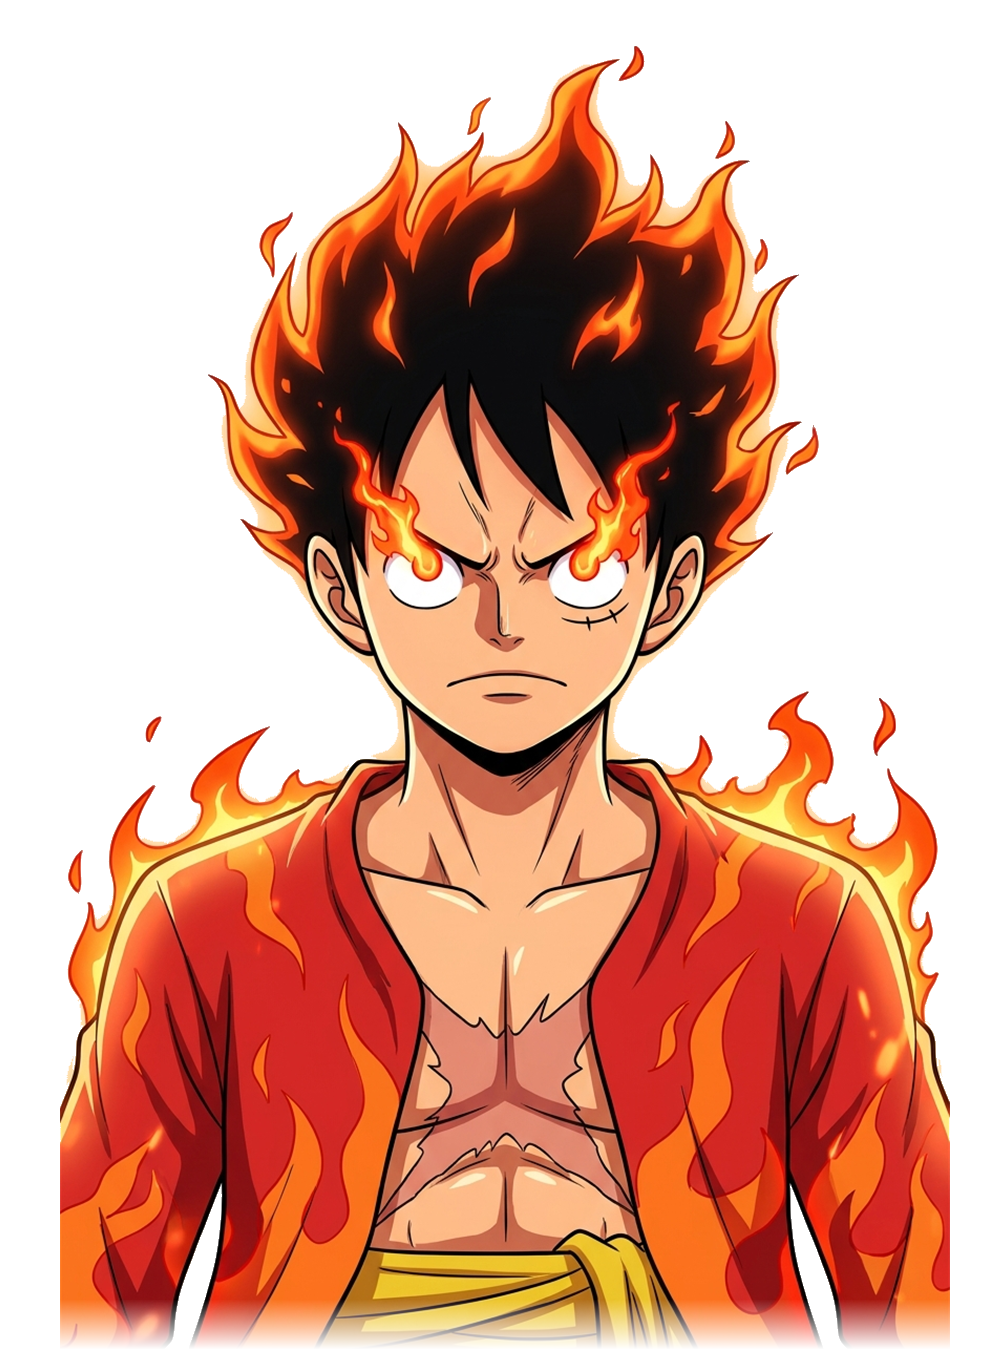
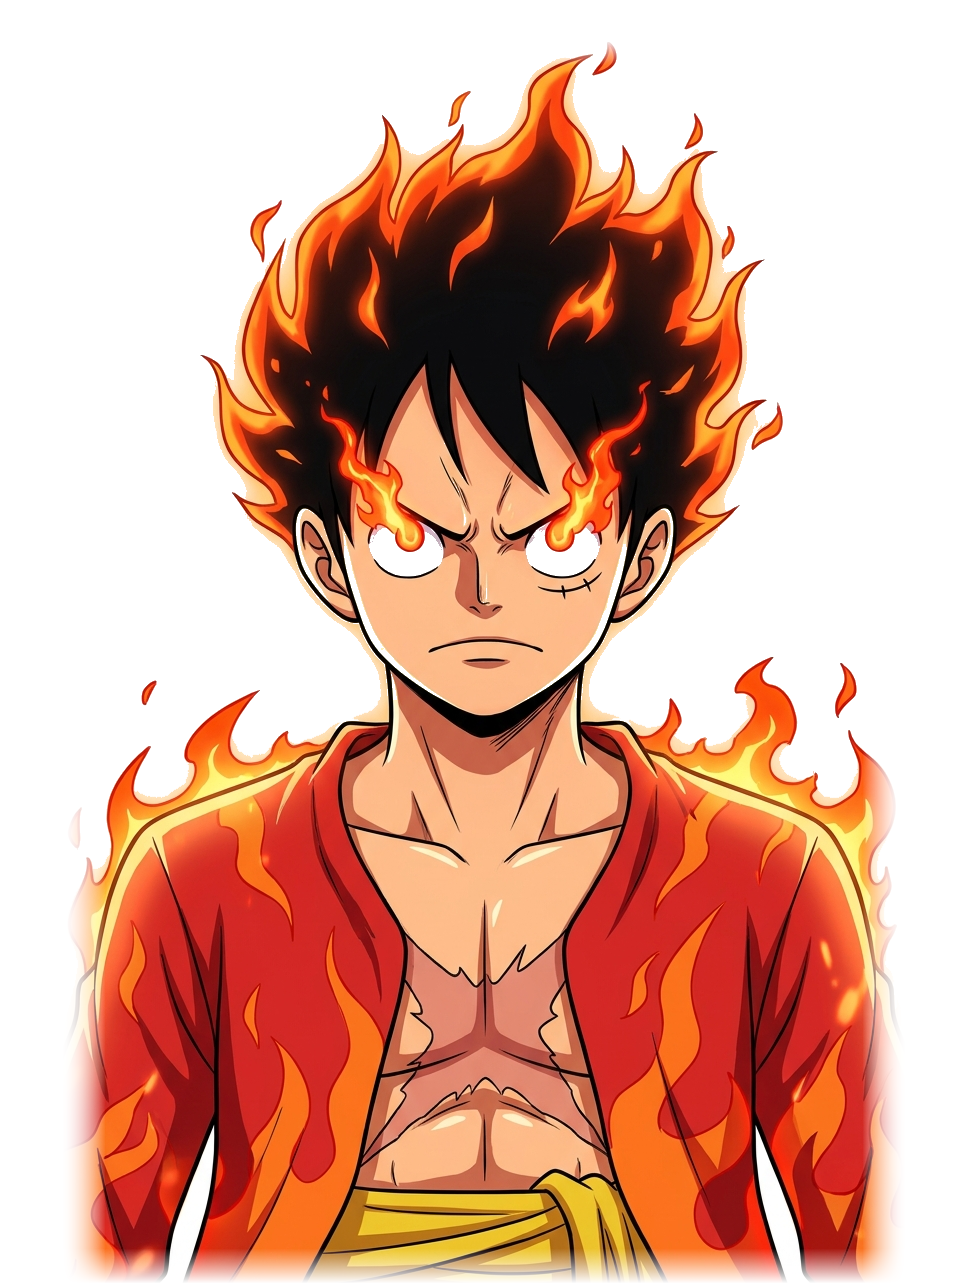
fix: restore authentic original portrait photo and stack MUHAMMAD above FEBRIANSYAH in hero typography

Changed region(s): [[0.062, 0.0312, 0.9607, 0.9969], [0.2169, 0.7477, 0.2789, 0.8411], [0.2789, 0.6854, 0.3099, 0.7165]]

diff --git a/style.css b/style.css
@@ -396,10 +396,6 @@ body {
 
 .hero-bg-text {
   font-family: var(--font-hero);
-  font-size: clamp(2.2rem, 7.2vw, 7.4rem);
-  font-weight: 900;
-  line-height: 0.95;
-  letter-spacing: clamp(-2px, -0.05vw, -0.5px);
   text-transform: uppercase;
   background: linear-gradient(180deg, #ffffff 0%, #dedfe8 50%, #7e8096 100%);
   -webkit-background-clip: text;
@@ -407,6 +403,31 @@ body {
   -webkit-text-fill-color: transparent;
   opacity: 0.95;
   filter: drop-shadow(0 15px 35px rgba(0, 0, 0, 0.7));
+  display: flex;
+  flex-direction: column;
+  align-items: center;
+  justify-content: center;
+  line-height: 0.9;
+  user-select: none;
+}
+
+.hero-name-top {
+  display: block;
+  font-size: clamp(1.8rem, 5.2vw, 5.2rem);
+  font-weight: 800;
+  letter-spacing: clamp(3px, 1vw, 12px);
+  opacity: 0.9;
+  line-height: 0.94;
+  margin-bottom: 0.05em;
+  white-space: nowrap;
+}
+
+.hero-name-main {
+  display: block;
+  font-size: clamp(3.2rem, 11vw, 10.8rem);
+  font-weight: 900;
+  letter-spacing: clamp(-2px, -0.05vw, -0.5px);
+  line-height: 0.88;
   white-space: nowrap;
 }
 
@@ -468,7 +489,9 @@ body {
   height: 100%;
   object-fit: contain;
   object-position: bottom center;
-  filter: drop-shadow(0 0 25px rgba(255, 75, 0, 0.85)) drop-shadow(0 15px 30px rgba(0, 0, 0, 0.85));
+  transform: scale(1.085);
+  transform-origin: bottom center;
+  filter: drop-shadow(0 0 24px rgba(255, 75, 0, 0.75)) drop-shadow(0 15px 30px rgba(0, 0, 0, 0.85));
 }
 
 /* Cursor Follower Dot on Portrait */
@@ -504,14 +527,15 @@ body {
 
 .hero-stroke-text {
   font-family: var(--font-hero);
-  font-size: clamp(2.2rem, 7.2vw, 7.4rem);
-  font-weight: 900;
-  line-height: 0.95;
-  letter-spacing: clamp(-2px, -0.05vw, -0.5px);
   text-transform: uppercase;
   color: transparent;
   -webkit-text-stroke: 1.5px rgba(255, 255, 255, 0.35);
-  white-space: nowrap;
+  display: flex;
+  flex-direction: column;
+  align-items: center;
+  justify-content: center;
+  line-height: 0.9;
+  user-select: none;
 }
 
 /* Floating Status / Hero Meta Card */
@@ -1884,18 +1908,24 @@ body {
     padding: 0.65rem 1rem;
     font-size: 0.8rem;
   }
-  .hero-bg-text,
-  .hero-stroke-text {
-    font-size: clamp(1.6rem, 6.8vw, 3.2rem);
+  .hero-name-top {
+    font-size: clamp(1.3rem, 5vw, 2.5rem);
+    letter-spacing: clamp(2px, 0.6vw, 5px);
+  }
+  .hero-name-main {
+    font-size: clamp(2.4rem, 9.6vw, 4.8rem);
     letter-spacing: -0.5px;
   }
 }
 
 @media (max-width: 480px) {
-  .hero-bg-text,
-  .hero-stroke-text {
-    font-size: clamp(1.2rem, 6.4vw, 1.85rem);
-    letter-spacing: -0.2px;
+  .hero-name-top {
+    font-size: clamp(0.95rem, 4.6vw, 1.45rem);
+    letter-spacing: 2px;
+  }
+  .hero-name-main {
+    font-size: clamp(1.8rem, 8.4vw, 2.6rem);
+    letter-spacing: -0.3px;
   }
   .hero-stage {
     min-height: 520px;

diff --git a/index.html b/index.html
@@ -171,15 +171,18 @@
 
         <!-- Layer 1: Giant Background Text (Behind Subject) -->
         <div class="hero-bg-text-wrap" id="heroBgTextWrap">
-          <h1 class="hero-bg-text" id="heroBgText">MUHAMMAD FEBRIANSYAH</h1>
+          <h1 class="hero-bg-text" id="heroBgText">
+            <span class="hero-name-top">MUHAMMAD</span>
+            <span class="hero-name-main">FEBRIANSYAH</span>
+          </h1>
         </div>
 
         <!-- Layer 2: Subject Cutout Image & Dual Persona (Febriansyah x Pose-Matched Luffy Fire Mode) -->
         <div class="hero-portrait-wrap" id="heroPortraitWrap">
-          <!-- Persona 1: Muhammad Febriansyah (Real Person in Suit, 100% Clean Cutout with Complete Shoulders) -->
+          <!-- Persona 1: Muhammad Febriansyah (Real Authentic Portrait Photo, Clean Cutout) -->
           <img 
             id="heroPortraitImg" 
-            src="assets/images/febri_official_portrait.png?v=20261021_master_v3" 
+            src="assets/images/febri_official_portrait.png?v=20261021_authentic_v4" 
             alt="Muhammad Febriansyah" 
             class="hero-portrait-img"
           >
@@ -188,7 +191,7 @@
           <div class="hero-luffy-overlay" id="heroLuffyOverlay">
             <img 
               id="heroPortraitLuffy" 
-              src="assets/images/luffy_matching_cutout.png?v=20261021_master_v3" 
+              src="assets/images/luffy_matching_cutout.png?v=20261021_authentic_v4" 
               alt="Monkey D. Luffy Fire Mode Pose-Matched Cutout" 
               class="hero-portrait-img luffy-cutout-img"
             >
@@ -200,7 +203,10 @@
 
         <!-- Layer 3: Foreground Text Stroke (Depth Wrap Effect) -->
         <div class="hero-stroke-text-wrap" id="heroStrokeTextWrap" aria-hidden="true">
-          <div class="hero-stroke-text" id="heroStrokeText">MUHAMMAD FEBRIANSYAH</div>
+          <div class="hero-stroke-text" id="heroStrokeText">
+            <span class="hero-name-top">MUHAMMAD</span>
+            <span class="hero-name-main">FEBRIANSYAH</span>
+          </div>
         </div>
 
         <!-- Floating Status / Info Card -->
